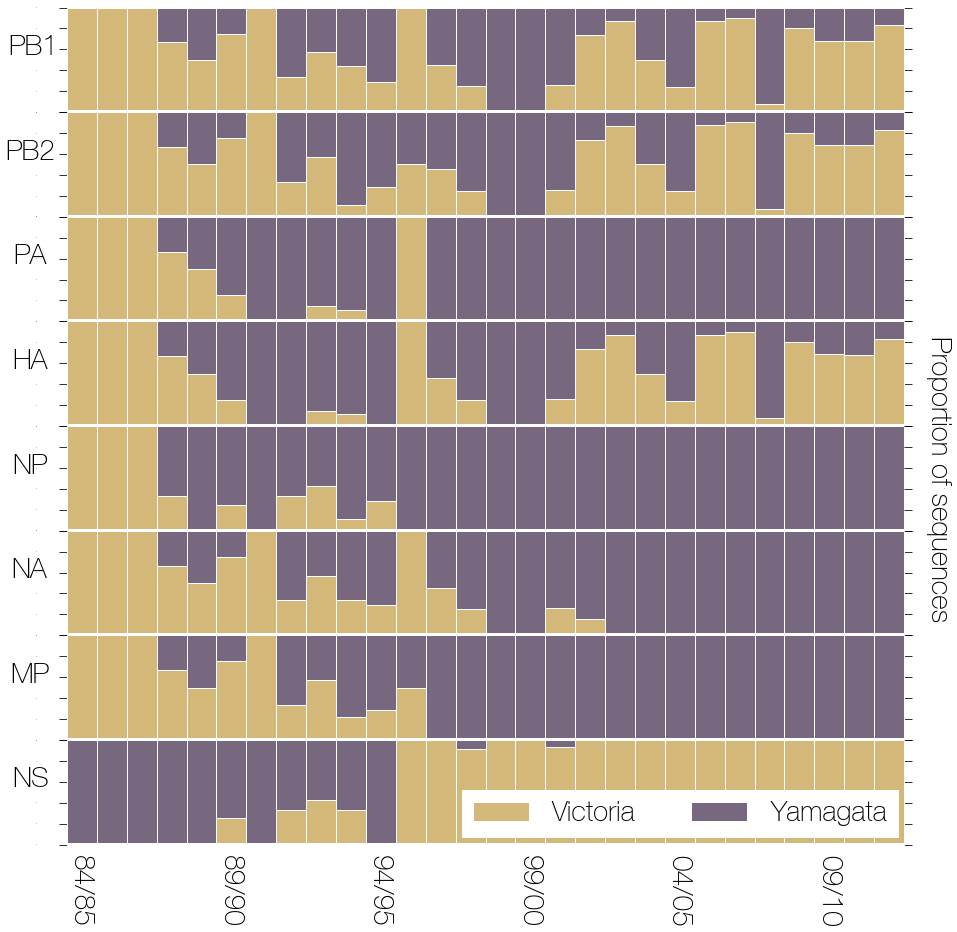
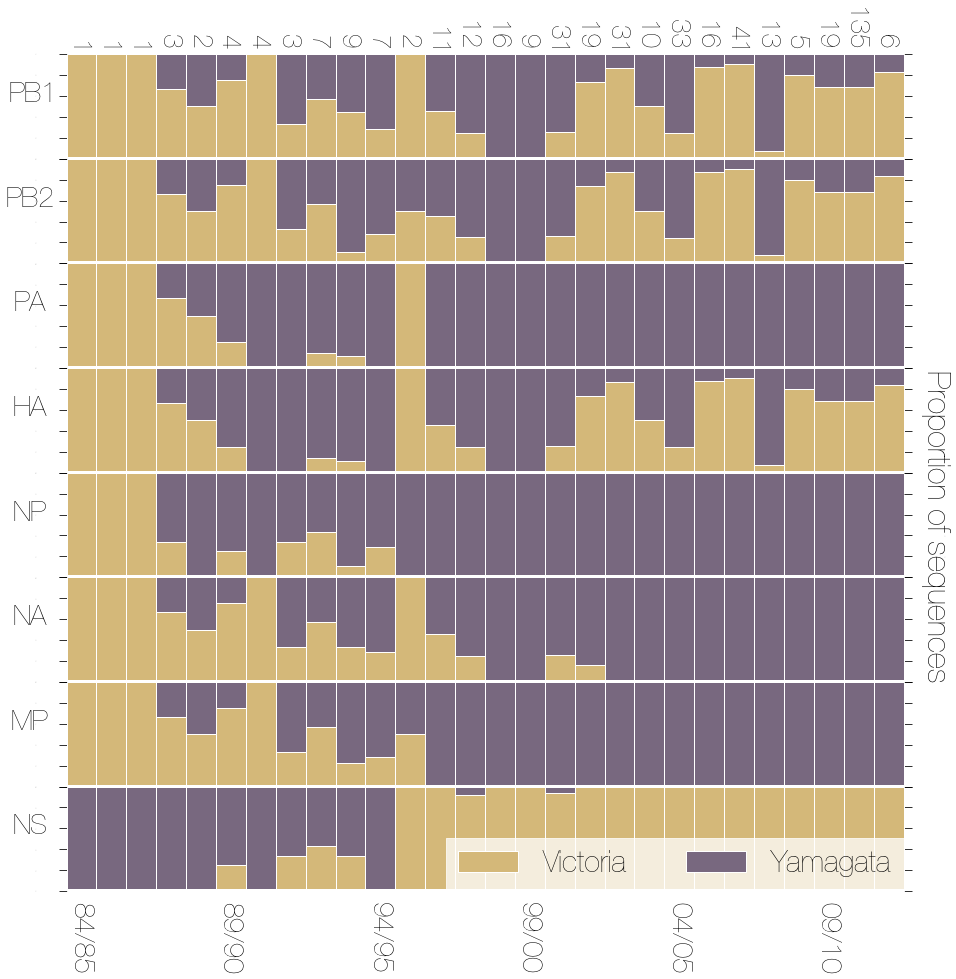
Implement some of the reviewers' comments.
Some clarifications should fix #13, #14, #15, #16, #18 and #19.

Added an alternative `stateTime' figure which excludes PB1, PB2 and HA
trees to avoid confusion.

Changed `LineageRatiosOverTime' figure to include genome counts at the
top to clarify that it shows something extremely basic.

Also altered LD calculator a bit, it didn't work with time-slicing
before and now does. I was trying to animate LD over time, didn't look
as impressive as expected.

diff --git a/scripts/LD_calculator_ChiSqdf_eLife.py b/scripts/LD_calculator_ChiSqdf_eLife.py
@@ -132,8 +132,8 @@ def overlap(a,b):
 
 ## Makes a list of dates if partitioning of LD is desired
 # Default value makes a single bin for all sequences isolated between 1900 and 2014
-step=114
-timeline=np.arange(1900,2014,step)
+step=3
+timeline=np.arange(1984,2014,step)
 
 ## Segments to analyze                                                                       
 segments=['PB1','PB2','PA','HA','NP','NA','M1','NS1']
@@ -144,9 +144,11 @@ segments=['PB1','PB2','PA','HA','NP','NA','M1','NS1']
 mixedLineage=[]
 
 ## Select mode - nt for nucleotide alignments, aa for amino acid alignments
-mode='nt'
-#mode='aa'
+#mode='nt'
+mode='aa'
 
+
+#segments=['NA','M1','NS1']
 
 ## Iterate over all pairs of segments
 for mem1 in range(len(segments)):
@@ -169,12 +171,12 @@ for mem1 in range(len(segments)):
             ## Define alignment name
             seg1='InfB_%s translation alignment.nex'%(segment1)
             seg2='InfB_%s translation alignment.nex'%(segment2)
-            f = open('/Users/admin/Documents/Viral sequences/InfB reassortment/Alignments/Translated/%s_%s_rDChicomparisonNoSelfCommonTEST.csv'%(segment1,segment2),'w')
+            f = open('/Users/admin/Documents/Viral sequences/InfB reassortment/Alignments/Translated/%s_%s_rDChicomparisonNoSelfTimed3.csv'%(segment1,segment2),'w')
         elif mode=='nt':
             path='/Users/admin/Documents/Viral sequences/InfB reassortment/Alignments/Without ancient seqs and pruned/'
             seg1='InfB_%s.nex'%(segment1)
             seg2='InfB_%s.nex'%(segment2)
-            f = open('/Users/admin/Documents/Viral sequences/InfB reassortment/Alignments/Without ancient seqs and pruned/%s_%s_rDChiNtcomparisonNoSelf.csv'%(segment1,segment2),'w')
+            f = open('/Users/admin/Documents/Viral sequences/InfB reassortment/Alignments/Without ancient seqs and pruned/%s_%s_rDChiNtcomparisonNoSelfRemake.csv'%(segment1,segment2),'w')
         
         handle1 = open(path+seg1, "rU")
         handle2 = open(path+seg2, "rU")
@@ -185,30 +187,34 @@ for mem1 in range(len(segments)):
         for record1,record2 in zip(AlignIO.read(handle1, "nexus"),AlignIO.read(handle2, "nexus")):
             seqCheck.append([record1,record2])
             for i in range(len(timeline)):
-                if (record1.id not in strains[i] and record1.id not in mixedLineage):
-                    strains[i].append(record1.id)
-                if (record2.id not in strains[i] and record2.id not in mixedLineage):
-                    strains[i].append(record2.id)
+                #if (record1.id not in strains[i] and record1.id not in mixedLineage):
+                    
+                #if (record2.id not in strains[i] and record2.id not in mixedLineage):
+                    
                 
                 if timeline[i]<=decimalDate(record1.id)<timeline[i]+step and record1.id not in mixedLineage:
                     dictA[i][record1.id]=record1.seq
                     alignmentA[i].append(record1.seq)
+                    if record1.id not in mixedLineage and record1.id not in strains[i]:
+                        strains[i].append(record1.id)
                 else:
                     pass
                     
                 if timeline[i]<=decimalDate(record2.id)<timeline[i]+step and record2.id not in mixedLineage:
                     dictB[i][record2.id]=record2.seq
                     alignmentB[i].append(record2.seq)
+                    if record2.id not in mixedLineage and record2.id not in strains[i]:
+                        strains[i].append(record2.id)
                 else:
                     pass
 
         print 'Sequence number check:',len(seqCheck)
         for tp in range(len(timeline)):
-            print 'Numbers of sequences left:',timeline[tp],len(alignmentA[tp]),len(alignmentB[tp])
-
+            print 'Numbers of sequences left:',timeline[tp],len(alignmentA[tp]),len(alignmentB[tp]),len(dictA[tp]),len(dictB[tp]),len(strains[tp])
+            
             ## Iterate over all pairs of sites in both alignments
             for i in range(len(alignmentA[tp][0])):
-                print timeline[tp],'site',i+1
+                #print timeline[tp],'site',i+1
                 for j in range(len(alignmentB[tp][0])):
                     if mode=='aa':
                         totalA=len(removeItem(column(alignmentA[tp],i),['-','?']))
@@ -230,7 +236,7 @@ for mem1 in range(len(segments)):
                     chiSq=None
                     chi=0
 
-                    ## Check whether haplotypes have gaps or are seen only once
+                    ## Count polymorphisms
                     polies=[]
                     for p1 in poly1:
                         if mode=='aa':
@@ -242,9 +248,11 @@ for mem1 in range(len(segments)):
                             polies.append(removeItem(column(alignmentB[tp],j),['-','?']).count(p2))
                         elif mode=='nt':
                             polies.append(removeItem2(column(alignmentB[tp],j),['A','C','T','G']).count(p2))
-                    if len(polies)==0:
-                        allHap=True
 
+                    ## check the count of the rarest polymorphism, proceed if minimum number met
+                    if len(polies)==0:
+                        allHap=False
+                    ## this is the cutoff for how many times a polymorphism has to be seen to be included in the analysis
                     elif min(polies)>=1:
                         allHap=True
                     else:
@@ -291,7 +299,9 @@ for mem1 in range(len(segments)):
                                 
                         ## Output stored chiSqdf value if contingency table already seen
                         if seen.has_key(str(contingencyTable))==True:
-                            print>>f,'%s,%s,%s,%s,%s,%s,%s'%(timeline[tp],i+1,j+1,len(poly1),len(poly2),seen[str(contingencyTable)]*(len(poly1)-1)*(len(poly2)-1)*total,seen[str(contingencyTable)])
+                            print>>f,'%s,%s,%s,%s,%s,%s,%s,%s'%(timeline[tp],len(strains[tp]),i+1,j+1,len(poly1),len(poly2),seen[str(contingencyTable)]*(len(poly1)-1)*(len(poly2)-1)*total,seen[str(contingencyTable)])
+                            #print '%s,%s,%s,%s,%s,%s,%s'%(timeline[tp],i+1,j+1,len(poly1),len(poly2),seen[str(contingencyTable)]*(len(poly1)-1)*(len(poly2)-1)*total,seen[str(contingencyTable)])
+                            print '%s\tseqs %s\t%s site %s\t%s site %s\t%s'%(timeline[tp],len(strains[tp]),segments[mem1],i+1,segments[mem2],j+1,seen[str(contingencyTable)])
                         else:
                             total1=0
                             total2=0
@@ -329,51 +339,18 @@ for mem1 in range(len(segments)):
                                     chiSq+=((contingencyTable[w][q]-expectedTable[w][q])**2)/float((expectedTable[w][q]))
 
                             ## Calculate chiSqdf value
+                            #print poly1,poly2
                             chiSqdf=chiSq/(float((len(poly1)-1)*(len(poly2)-1)*total))
 
                             ## Remember chiSqdf value for this particular contingency table - saves time
                             seen[str(contingencyTable)]=chiSqdf
 
                             ## Print time period, segment 1 site, segment 2 site, number of polymorphisms in segment 1 at site, number of polymorphisms in segment 2 at site, chi value (not chiSq) and chiSqdf value
-                            print>>f,'%s,%s,%s,%s,%s,%s,%s'%(timeline[tp],i+1,j+1,len(poly1),len(poly2),chi,chiSqdf)                            
+                            print>>f,'%s,%s,%s,%s,%s,%s,%s,%s'%(timeline[tp],len(strains[tp]),i+1,j+1,len(poly1),len(poly2),chi,chiSqdf)
+                            #print '%s,%s,%s,%s,%s,%s,%s'%(timeline[tp],i+1,j+1,len(poly1),len(poly2),chi,chiSqdf)
+                            print '%s\tseqs %s\t%s site %s\t%s site %s\t%s'%(timeline[tp],len(strains[tp]),segments[mem1],i+1,segments[mem2],j+1,chiSqdf)
         f.close()
 
-
-
-
-        ## Count the number of polymorphic sites on both segments
-        polCounterA=0
-        for tp in range(len(timeline)):
-            print timeline[tp],len(alignmentA[tp])
-            for i in range(len(alignmentA[tp][0])):
-                if mode=='aa':
-                    totalA=removeItem(column(alignmentA[tp],i),['-','?'])
-                    poly1=unique(removeItem(column(alignmentA[tp],i),['-','?']))
-                elif mode=='nt':
-                    totalA=removeItem2(column(alignmentA[tp],i),['A','C','T','G'])
-                    poly1=unique(removeItem2(column(alignmentA[tp],i),['A','C','T','G']))
-                
-                rarest=min([totalA.count(y) for y in poly1])
-                if len(poly1)>1 and rarest>=2:
-                    polCounterA+=1
-
-        polCounterB=0
-        for tp in range(len(timeline)):
-            print timeline[tp],len(alignmentB[tp])
-            for i in range(len(alignmentB[tp][0])):
-                if mode=='aa':
-                    totalB=removeItem(column(alignmentB[tp],i),['-','?'])
-                    poly2=unique(removeItem(column(alignmentB[tp],i),['-','?']))
-                elif mode=='nt':
-                    totalB=removeItem2(column(alignmentB[tp],i),['A','C','T','G'])
-                    poly2=unique(removeItem2(column(alignmentB[tp],i),['A','C','T','G']))
-                
-                rarest=min([totalB.count(y) for y in poly2])
-                if len(poly2)>1 and rarest>=2:
-                    polCounterB+=1
-
-        print 'Number of polymorphic sites on %s : %s'%(segment1,polCounterA)
-        print 'Number of polymorphic sites on %s : %s'%(segment2,polCounterB)
 
         handle1.close()
         handle2.close()

diff --git a/fluB.tex b/fluB.tex
@@ -179,7 +179,8 @@ All vertical lines indicating uncertainty are 95\% highest posterior densities (
 	\label{betweenDiversity}
 \end{figure}
 
-By plotting the ratios of sequences deriving from either the Vic or Yam lineage in each segment (Figure \ref{lineageRatiosOverTime}) it is evident that losses of diversity in the PA, NP, NA, MP and NS segments are related to the repeated fixation of either the Vic or the Yam lineage.
+We show the ratio of Vic and Yam lineages in our sequence data in different influenza seasons in Figure \ref{lineageRatiosOverTime}, which is based on lineage assignment performed earlier.
+It is evident that losses of diversity in the PA, NP, NA, MP and NS segments are related to the repeated fixation of either the Vic or the Yam lineage.
 These losses of diversity correspond to fixation of the Vic lineage in NS and fixation of the Yam lineage in PA, NP, NA and MP.
 Similarly, the lack of reassortment between Vic and Yam lineages and maintenance of diversity of PB1, PB2 and HA can be seen, where the two lineages have been isolated at a ratio close to 50\% over long periods of time (Figure \ref{lineageRatiosOverTime}).
 On a year-to-year basis, however, the ratios for Vic and Yam lineage PB1, PB2 and HA can fluctuate dramatically consistent with one lineage predominating within a given season, in agreement with surveillance data \cite{reed2012}.
@@ -189,6 +190,8 @@ On a year-to-year basis, however, the ratios for Vic and Yam lineage PB1, PB2 an
 	\includegraphics[width=0.65\textwidth]	{figures/InfB_LineageRatiosOverTime.png}
 	\caption{\textbf{Ratio of lineages in the dataset.}
 The ratio of sequences that derive from the original Victoria clade (yellow) to sequences that derive from the Yamagata clade (purple) in each segment over time.
+Numbers at the top of the figure show the total number of genomes analyzed within each influenza season.
+Numbers at the bottom are influenza seasons from the 1984/1985 (84/85) season to the 2011/2012 season.
 Yamagata lineage PA, NP, NA and MP segments and Victoria lineage NS segment eventually become fixed in the influenza B population.
 PB1, PB2 and HA segments maintain separate Victoria and Yamagata lineages.}
 	\label{lineageRatiosOverTime}
@@ -204,7 +207,8 @@ We identify 5 major reassortant genome constellations (given in order PB1-PB2-PA
   \item B/California/NHRC0001/2006-like (V-V-Y-V-Y'-Y-Y'-V')
   \item B/Brisbane/33/2008-like (V-V-Y-V-Y'-Y-Y-V)
 \end{itemize}
-Of these 5 constellations 4 (B/Nanchang/2/1997-like, B/Iowa/03/2002-like, \\B/California/NHRC0001/2006-like and B/Brisbane/33/2008-like) are derived from introgression of Yamagata lineage segments into Victoria lineage PB1-PB2-HA background, with only 1 (B/Alaska/12/1996-like) resulting from introgression of Victoria lineage NS segment into an entirely Yamagata derived background.
+B/Alaska/12/1996-like, B/Nanchang/2/1997-like and B/Iowa/03/2002-like constellations were observed by Chen \& Holmes \cite{chen2008}, but sequences from B/California/NHRC0001/2006-like and B/Brisbane/33/2008-like constellations were not available at the time.
+Of these 5 constellations 4 (B/Nanchang/2/1997-like, B/Iowa/03/2002-like, B/California/NHRC0001/2006-like and B/Brisbane/33/2008-like) are derived from introgression of Yamagata lineage segments into Victoria lineage PB1-PB2-HA background, with only 1 (B/Alaska/12/1996-like) resulting from introgression of Victoria lineage NS segment into an entirely Yamagata derived background.
 All 5 inter-lineage reassortment events described here are marked by the preservation of either entirely Victoria or Yamagata derived PB1-PB2-HA segments.
 Figure \ref{railroadPlot} also shows that reassorting segments appear to evolve with a considerable degree of autonomy.
 For example, the NP lineage that entered a largely Victoria lineage derived genome and gave rise to the B/Nanchang/2/1997-like isolates continued circulating until 2010, even though other segments it reassorted with in 1995 -- 1996 (PA and MP) went extinct following the reassortments that led to the rise of viruses with B/Iowa/03/2002-like genome constellations.
@@ -312,13 +316,19 @@ This is evidence of a considerable number of co-assorting alleles within these p
 \subsection*{Evidence of a co-adapted PB1-PB2-HA gene complex}
 In this paper we show that the PB1, PB2 and HA segments of influenza B viruses are the only ones that have continuously maintained separate Vic and Yam lineages, while other segments have fixed either Vic or Yam lineages (Figures \ref{genomeGrid}, \ref{lineageRatiosOverTime} and \ref{railroadPlot}).
 Evidence suggests that this is a result of prolonged lack of reassortment between Vic and Yam lineages in PB1, PB2 and HA (Figure \ref{betweenDiversity}) which possess co-assorting sequences detectable as high linkage disequilibrium (Figure \ref{segmentLD}).
+The vast majority of the sampled evolutionary history of each segment of influenza B viruses since the split of Vic and Yam lineages has been spent in association with either completely Victoria or completely Yamagata lineage derived PB1-PB2-HA complexes (Figure \ref{stateTime}), suggesting that having `pure' lineage PB1-PB2-HA complexes is important for whole-genome fitness.
 We propose that this pattern of coassortment is due to the action of selection and not simply biased reassortment.
-We do not find evidence of bias in reassortment or segment packaging bias between PB1, PB2 and HA segments (Figure \ref{SPRdistances}), but evidence points to ressortments between these segments being disfavored over longer spans of evolutionary time (Figure \ref{deltaTMRCA}).
+One could image that due to some artefact of segment packaging PB1, PB2 and HA segments preferentially co-assort together and thus have a reduced reassortment rate when compared to the rest of the genomic segments.
+We find no evidence of this -- PB1, PB2 and HA segments reassort to the same extent as other segments (Figure \ref{SPRdistances}) and instead only reassortments combining lineages across greater temporal distances are disfavoured (Figure \ref{deltaTMRCA}), which does not seem to drive the overall reassortment rate down.
+If PB1, PB2 and HA trees were embedded within a `species tree' we would see many reassortments within both major branches of this tree -- the Vic and Yam lineages -- but not between them.
 
 When comparing the mean tip-tip TMRCA deviations we find evidence of isolation by distance - when reassortments occur between PB1, PB2 and HA segments those events tend to involve branches that have similar TMRCAs.
 Other segment pairs, with the exception of MP-NA, seem to show little signal of this and are able to reassort with branches that have been evolving under temporally distant genomic backgrounds.
 In addition, most strains with mixed-lineage PB1-PB2-HA complexes occurred in the early years of the Vic--Yam split, when the two lineages were presumably much more similar at the nucleotide and amino acid levels.
 The most recent influenza B viruses with B/Waikato/6/2005-like genome constellations possessed mixed-lineage PB1-PB2-HA complexes and circulated for only 5 months before presumably going extinct.
+
+We should clarify that when we say that Vic and Yam PB1-PB2-HA complexes of the influenza B virus are co-adapted and have co-evolved we mean that these 3 segments do not appear to function well when derived from both lineages and that the evolution to this state has been intimate, in the sense that the two lineages have not reassorted across great temporal distances, unlike the rest of the genome.
+
 
 \subsection*{Causes of co-dependence between PB1-PB2-HA}
 Previous studies have investigated possible co-dependence patterns between segments of influenza B viruses, by focusing on segments which would be expected to be co-adapted, \textit{e.g.} PB1-PB2-PA and HA-NA \cite{mccullers2004}.
@@ -464,6 +474,9 @@ We subsampled our combined posterior distribution of trees to give a total of 27
 
 Calculating $\dtmrca(A_i, B_i)$ for each MCMC state provides us with a posterior distribution of this statistic allowing  specific hypotheses regarding similarities between the trees of different segments to be tested.
 Our approach exploits the branch scaling used by BEAST \cite{drummond2012}, since the trees are scaled in absolute time and insensitive to variation in nucleotide substitution rates between segments, allowing for direct comparisons between TMRCAs in different trees.
+This method operates under the assumption that the segment trees capture the overall `species tree' (or `virus tree') of influenza B viruses quite well.
+It is not an unreasonable assumption, given the seasonal bottlenecks of these viruses.
+The $\dtmrca$ statistic essentially captures a facet of this influenza B `species tree' by quantifying the temporal distance between an admixture event and the original lineage that was replaced by the incoming lineage.
 Our $\dtmrca$ statistic is an extension of patristic distance methods and has previously been used to tackle a wide variety of problems, as phylogenetic distance in predicting viral titer in \textit{Drosophila} infected with viruses from closely related species \cite{longdon2011} and to assess temporal incongruence in a phylogenetic tree of amphibian species induced by using different calibrations \cite{ruane2011}.
 
 Subtree prune and regraft (SPR) distances between phylogenetic trees are an approximate measure of the numbers of reassortment or recombination events.
